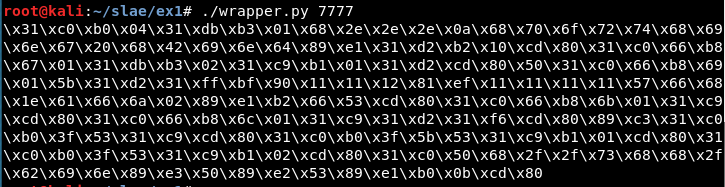
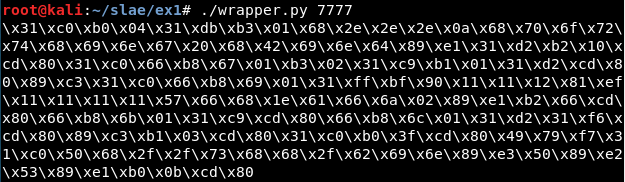
Added images

diff --git a/ex1/README.md b/ex1/README.md
@@ -7,7 +7,19 @@
 python wrapper.py $PORT
 ```
 
+Example with port 7777:
+
 ![Screenshot](images/wrapper/5.png)
+
+Then it can be compiled and executed:
+
+![Screenshot](images/wrapper/51.png)
+
+
+Result:
+
+![Screenshot](images/wrapper/52.png)
+
 
 If the port causes problems, a warning message will appear:
 
